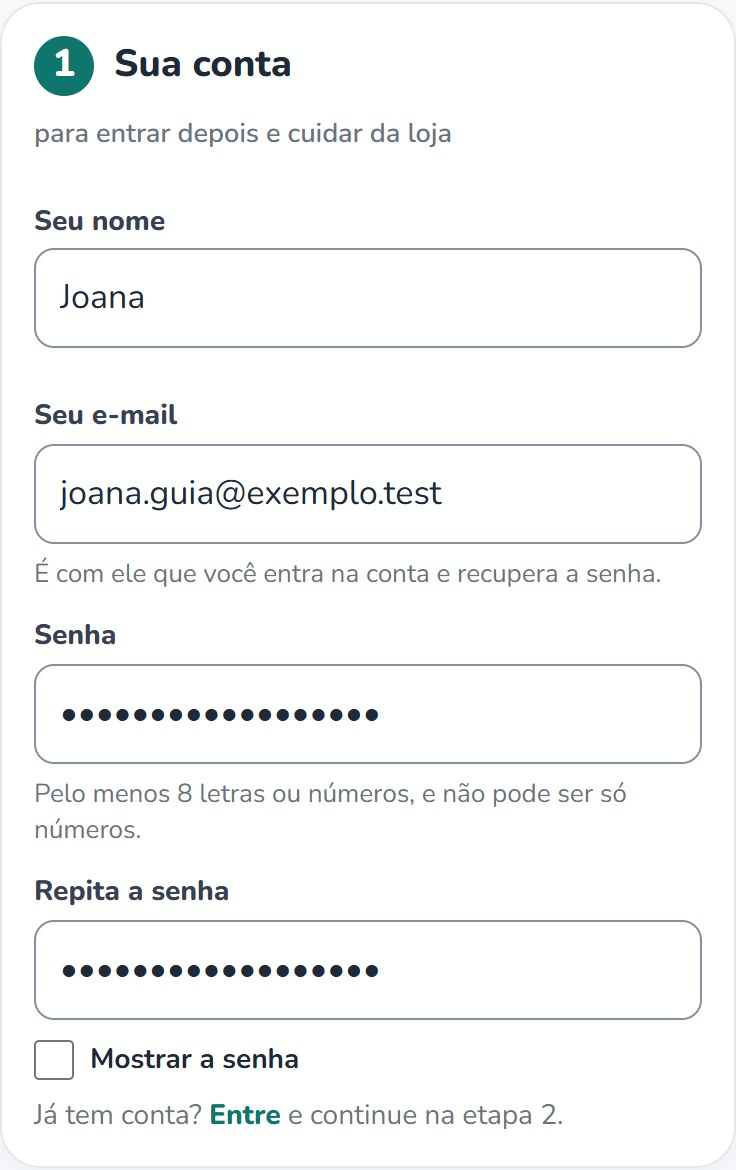
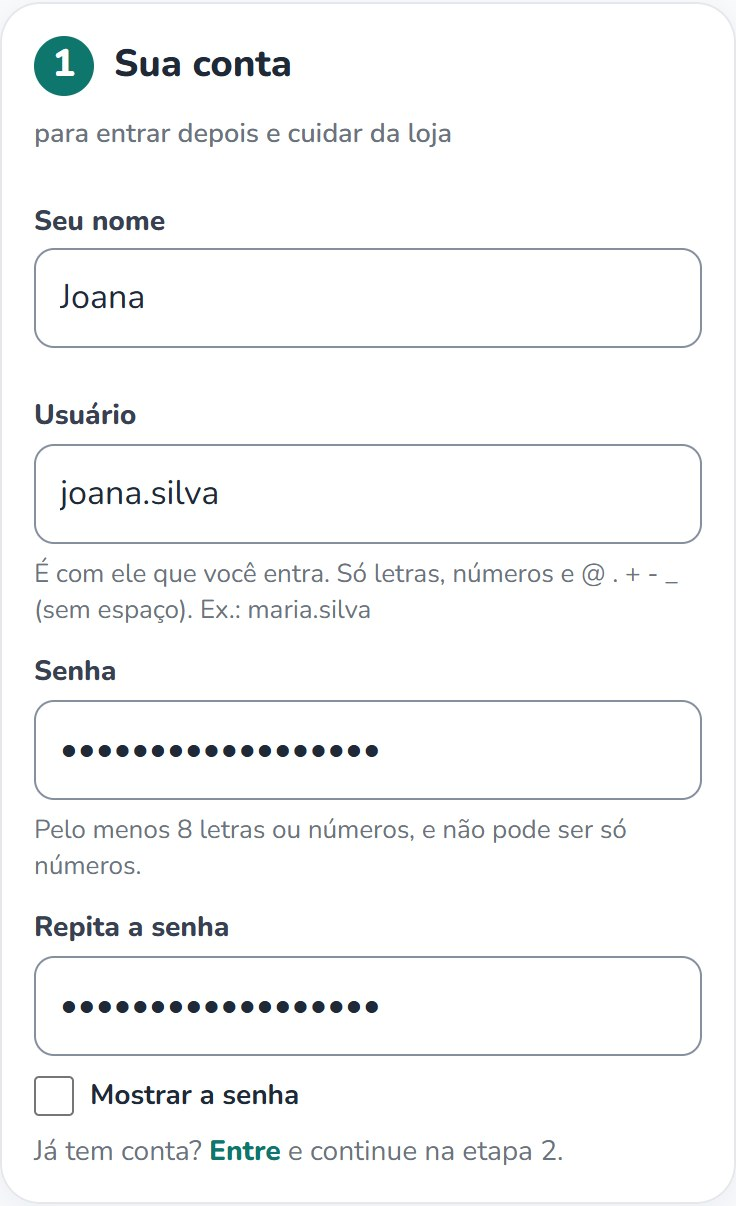
Conta com nome, usuário e senha (sem e-mail); entrar pelo usuário

diff --git a/vitrine/templates/vitrine/cadastro_loja.html b/vitrine/templates/vitrine/cadastro_loja.html
@@ -4,7 +4,7 @@
 {% block cabeca %}{% if loja %}<link rel="stylesheet" href="https://cdnjs.cloudflare.com/ajax/libs/leaflet/1.9.4/leaflet.min.css">{% endif %}{% endblock %}
 
 {% block conteudo %}
-<section class="tela tela-cad-loja" data-ouvir="{% if editando %}Aqui você muda os dados da sua loja. Depois toque em Salvar.{% elif conta %}Cadastrar a sua loja é de graça e tem duas etapas. Agora é a etapa 1: crie a sua conta com seu nome, seu e-mail e uma senha. Depois toque em Criar conta e continuar.{% else %}Etapa 2: os dados da loja. Escreva o nome da loja, o que você vende, o seu WhatsApp e, se quiser, o horário. Depois marque no mapa onde fica a loja: toque no mapa ou no botão Usar onde estou. Foto e história são opcionais. No fim, toque em Cadastrar minha loja.{% endif %}">
+<section class="tela tela-cad-loja" data-ouvir="{% if editando %}Aqui você muda os dados da sua loja. Depois toque em Salvar.{% elif conta %}Cadastrar a sua loja é de graça e tem duas etapas. Agora é a etapa 1: crie a sua conta com seu nome, um usuário e uma senha. Depois toque em Criar conta e continuar.{% else %}Etapa 2: os dados da loja. Escreva o nome da loja, o que você vende, o seu WhatsApp e, se quiser, o horário. Depois marque no mapa onde fica a loja: toque no mapa ou no botão Usar onde estou. Foto e história são opcionais. No fim, toque em Cadastrar minha loja.{% endif %}">
   <header class="cl-topo">
     <span class="ajuda-selo"><i data-lucide="store" class="ic-l" aria-hidden="true"></i> {% if editando %}Minha loja{% else %}Para quem vende{% endif %}</span>
     <h1>{% if editando %}Dados da minha loja{% else %}Cadastre a sua loja{% endif %}</h1>
@@ -31,7 +31,7 @@
       <legend><span class="ap-n">1</span> Sua conta <small>para entrar depois e cuidar da loja</small></legend>
       <div class="cl-campos">
         {% for campo in conta %}
-        <div class="campo{% if campo.name == 'email' or campo.name == 'first_name' %} cheio{% endif %}">
+        <div class="campo{% if campo.name == 'username' or campo.name == 'first_name' %} cheio{% endif %}">
           <label for="{{ campo.id_for_label }}">{{ campo.label }}</label>{{ campo }}
           {% if campo.help_text %}<small class="ajuda">{{ campo.help_text|safe }}</small>{% endif %}
           {{ campo.errors }}

diff --git a/vitrine/templates/vitrine/sobre.html b/vitrine/templates/vitrine/sobre.html
@@ -46,7 +46,7 @@
     <div class="ab-cab"><span class="ab-ic laranja"><i data-lucide="list-checks" class="ic-l" aria-hidden="true"></i></span><div><h2 id="tit-guia-loja">Passo a passo: cadastrar a sua loja</h2><p>Leva uns 3 minutos. Veja as telas que vão aparecer.</p></div></div>
     <ol class="guia-lista" tabindex="0" aria-label="Telas do passo a passo (role para o lado)">
       <li class="guia-passo"><figure><img src="{% static 'vitrine/guia/loja-1.jpg' %}" alt="Tela: Toque em “Cadastrar minha loja”" loading="lazy"></figure><div><span class="ap-n laranja">1</span><b>Toque em “Cadastrar minha loja”</b><p>Fica no fim da página inicial, em <b>Para quem vende</b>, e no menu <b>Vender</b>.</p></div></li>
-      <li class="guia-passo"><figure><img src="{% static 'vitrine/guia/loja-2.jpg' %}?v=2" alt="Tela: Crie a sua conta" loading="lazy"></figure><div><span class="ap-n laranja">2</span><b>Crie a sua conta</b><p>Só nome, e-mail e senha. Você entra com o e-mail.</p></div></li>
+      <li class="guia-passo"><figure><img src="{% static 'vitrine/guia/loja-2.jpg' %}?v=3" alt="Tela: Crie a sua conta" loading="lazy"></figure><div><span class="ap-n laranja">2</span><b>Crie a sua conta</b><p>Só nome, usuário e senha. Você entra com o usuário.</p></div></li>
       <li class="guia-passo"><figure><img src="{% static 'vitrine/guia/loja-3.jpg' %}?v=2" alt="Tela: Conte sobre a loja" loading="lazy"></figure><div><span class="ap-n laranja">3</span><b>Conte sobre a loja</b><p>Nome da loja, como os clientes chamam você, o que vende e o seu WhatsApp.</p></div></li>
       <li class="guia-passo"><figure><img src="{% static 'vitrine/guia/loja-4.jpg' %}?v=2" alt="Tela: Digite o CEP e confira no mapa" loading="lazy"></figure><div><span class="ap-n laranja">4</span><b>Digite o CEP e confira no mapa</b><p>O site completa bairro e rua sozinho e leva o mapa até a sua rua. Arraste o marcador até a porta da loja.</p></div></li>
       <li class="guia-passo"><figure><img src="{% static 'vitrine/guia/loja-5.jpg' %}?v=2" alt="Tela: Pronto, a loja já está no ar" loading="lazy"></figure><div><span class="ap-n laranja">5</span><b>Pronto, a loja já está no ar</b><p>No seu painel você coloca os produtos e acompanha a nota e as avaliações.</p></div></li>

diff --git a/vitrine/templates/registration/login.html b/vitrine/templates/registration/login.html
@@ -2,13 +2,13 @@
 {% load static %}
 {% block titulo %}Entrar – Vitrine Digital{% endblock %}
 {% block conteudo %}
-<section class="tela login com-lado" data-ouvir="Esta é a tela de entrar. Escreva seu e-mail e sua senha e toque em Entrar. Se não tem conta, toque em Criar conta. Se esqueceu a senha, toque em Esqueci minha senha.">
+<section class="tela login com-lado" data-ouvir="Esta é a tela de entrar. Escreva seu usuário e sua senha e toque em Entrar. Se não tem conta, toque em Criar conta. Se esqueceu a senha, toque em Esqueci minha senha.">
   <aside class="conta-lado" style="--foto:url('{% static 'vitrine/fotos/mosaico-2.jpg' %}')"><div class="cl-txt"><img src="{% static 'vitrine/logo.svg' %}" alt="" class="cl-logo"><h2>Que bom ver você por aqui</h2><ul><li><i data-lucide="star" class="ic-l" aria-hidden="true"></i>Avalie as lojas onde você comprou</li><li><i data-lucide="store" class="ic-l" aria-hidden="true"></i>Comerciante: cuide da sua vitrine, preços e fotos</li><li><i data-lucide="shield-check" class="ic-l" aria-hidden="true"></i>Sua senha fica protegida e só você entra na sua conta</li></ul></div></aside>
   <div class="marca"><div class="logo" aria-hidden="true"><i data-lucide="log-in" class="ic-l" aria-hidden="true"></i></div><div><h1>Entrar</h1><small style="color:var(--cinza)">Para avaliar lojas ou cuidar da sua vitrine</small></div></div>
   <form class="caixa" method="post" style="margin:20px 0 0">
     {% csrf_token %}
-    {% if form.non_field_errors %}<div class="erro">E-mail ou senha incorretos.</div>{% endif %}
-    <div class="campo cheio" style="margin-top:8px"><label for="id_username">E-mail</label>{{ form.username }}</div>
+    {% if form.non_field_errors %}<div class="erro">Usuário ou senha incorretos.</div>{% endif %}
+    <div class="campo cheio" style="margin-top:8px"><label for="id_username">Usuário</label>{{ form.username }}</div>
     <div class="campo cheio" style="margin-top:10px"><label for="id_password">Senha</label>{{ form.password }}</div>
     <label class="mostra-senha"><input type="checkbox" class="ver-senha"> Mostrar a senha</label>
     <input type="hidden" name="next" value="{{ next }}">

diff --git a/vitrine/templates/registration/cadastro.html b/vitrine/templates/registration/cadastro.html
@@ -2,9 +2,9 @@
 {% load static %}
 {% block titulo %}Criar conta – Vitrine Digital{% endblock %}
 {% block conteudo %}
-<section class="tela login com-lado" data-ouvir="Esta é a tela de criar conta. Escreva seu nome, seu e-mail e uma senha. Depois toque em Criar conta.">
+<section class="tela login com-lado" data-ouvir="Esta é a tela de criar conta. Escreva seu nome, escolha um usuário e uma senha. Depois toque em Criar conta.">
   <aside class="conta-lado" style="--foto:url('{% static 'vitrine/fotos/mosaico-3.jpg' %}')"><div class="cl-txt"><img src="{% static 'vitrine/logo.svg' %}" alt="" class="cl-logo"><h2>Uma conta, em menos de 1 minuto</h2><ul><li><i data-lucide="user-round" class="ic-l" aria-hidden="true"></i>Só nome, usuário e senha. E-mail é opcional</li><li><i data-lucide="star" class="ic-l" aria-hidden="true"></i>Avalie e ajude seus vizinhos a escolher onde comprar</li><li><i data-lucide="scale" class="ic-l" aria-hidden="true"></i>Uma avaliação por loja: notas justas para todo mundo</li></ul></div></aside>
-  <div class="marca"><div class="logo" aria-hidden="true"><i data-lucide="user-plus" class="ic-l" aria-hidden="true"></i></div><div><h1>Criar conta</h1><small style="color:var(--cinza)">Rapidinho: só nome, e-mail e senha</small></div></div>
+  <div class="marca"><div class="logo" aria-hidden="true"><i data-lucide="user-plus" class="ic-l" aria-hidden="true"></i></div><div><h1>Criar conta</h1><small style="color:var(--cinza)">Rapidinho: só nome, usuário e senha</small></div></div>
   <form class="caixa" method="post" style="margin:20px 0 0" novalidate>
     {% csrf_token %}
     {{ form.non_field_errors }}

diff --git a/vitrine/tests.py b/vitrine/tests.py
@@ -199,42 +199,40 @@ class AvaliacaoTests(TestCase):
 
 class ContaTests(TestCase):
     def test_cadastro_cria_conta_e_entra(self):
-        r = self.client.post(reverse('cadastro'), {'first_name': 'Joana', 'email': 'Joana@Exemplo.com',
+        r = self.client.post(reverse('cadastro'), {'first_name': 'Joana', 'username': 'joana',
                                                    'password1': 'feira-boa-2026', 'password2': 'feira-boa-2026',
                                                    'next': '/banca/1/'})
         self.assertRedirects(r, '/banca/1/', fetch_redirect_response=False)
         u = get_user_model().objects.get(first_name='Joana')
-        self.assertEqual((u.username, u.email), ('joana@exemplo.com', 'joana@exemplo.com'))  # o e-mail vira o login
+        self.assertEqual((u.username, u.email), ('joana', ''))  # sem e-mail
         self.assertIn('_auth_user_id', self.client.session)
 
-    def test_cadastro_sem_campo_usuario_e_email_obrigatorio(self):
+    def test_cadastro_sem_campo_de_email(self):
         r = self.client.get(reverse('cadastro'))
-        self.assertNotContains(r, 'name="username"')
-        r = self.client.post(reverse('cadastro'), {'first_name': 'X', 'email': '',
-                                                   'password1': 'feira-boa-2026', 'password2': 'feira-boa-2026'})
-        self.assertEqual(r.status_code, 200)
-        self.assertFalse(get_user_model().objects.exists())
+        self.assertNotContains(r, 'name="email"')
+        self.assertContains(r, 'name="username"')
 
     def test_cadastro_nao_redireciona_para_site_externo(self):
-        r = self.client.post(reverse('cadastro'), {'first_name': 'X', 'email': 'x@exemplo.com', 'password1': 'feira-boa-2026',
+        r = self.client.post(reverse('cadastro'), {'first_name': 'X', 'username': 'xx', 'password1': 'feira-boa-2026',
                                                    'password2': 'feira-boa-2026', 'next': 'https://site-malicioso.com/'})
         self.assertRedirects(r, reverse('inicio'), fetch_redirect_response=False)
 
-    def test_email_repetido_recusado(self):
-        get_user_model().objects.create_user('a1', email='mesmo@exemplo.com', password='x-123456789')
-        self.client.post(reverse('cadastro'), {'first_name': 'B', 'email': 'MESMO@exemplo.com',
+    def test_usuario_repetido_recusado_mesmo_com_maiuscula(self):
+        get_user_model().objects.create_user('maria', password='x-123456789')
+        self.client.post(reverse('cadastro'), {'first_name': 'B', 'username': 'Maria',
                                                'password1': 'feira-boa-2026', 'password2': 'feira-boa-2026'})
         self.assertEqual(get_user_model().objects.count(), 1)
 
-    def test_entra_com_email_ou_usuario_antigo(self):
-        get_user_model().objects.create_user('lia', email='lia@exemplo.com', password='senha-boa-2026')
-        r = self.client.post(reverse('login'), {'username': 'LIA@exemplo.com', 'password': 'senha-boa-2026'})
+    def test_entra_com_usuario_ou_email_de_conta_antiga(self):
+        get_user_model().objects.create_user('lia@exemplo.com', email='lia@exemplo.com', password='senha-boa-2026')
+        get_user_model().objects.create_user('rui', password='senha-boa-2026')
+        r = self.client.post(reverse('login'), {'username': 'rui', 'password': 'senha-boa-2026'})
         self.assertEqual(r.status_code, 302)
         self.client.logout()
-        self.assertTrue(self.client.login(username='lia', password='senha-boa-2026'))  # contas antigas continuam
+        self.assertTrue(self.client.login(username='LIA@exemplo.com', password='senha-boa-2026'))  # contas criadas com e-mail
         self.client.logout()
-        r = self.client.post(reverse('login'), {'username': 'lia@exemplo.com', 'password': 'errada-000'})
-        self.assertContains(r, 'E-mail ou senha incorretos.')
+        r = self.client.post(reverse('login'), {'username': 'rui', 'password': 'errada-000'})
+        self.assertContains(r, 'Usuário ou senha incorretos.')
 
     def test_esqueci_senha_manda_link_e_troca(self):
         from django.core import mail
@@ -260,12 +258,12 @@ class CadastroLojaTests(TestCase):
     DADOS = {'l-nome': 'Pastel da Joana', 'l-responsavel': 'Joana', 'l-categoria': 'comida', 'l-whatsapp': '(82) 98888-7777',
              'l-bairro': 'Ponta Verde', 'l-ponto': 'Rua Durval Guimarães', 'l-cep': '57035060',
              'l-latitude': '-9.662003', 'l-longitude': '-35.707900', 'l-historia': ''}
-    CONTA = {'c-first_name': 'Joana', 'c-email': 'joana@exemplo.com', 'c-password1': 'Senha-forte-123', 'c-password2': 'Senha-forte-123'}
+    CONTA = {'c-first_name': 'Joana', 'c-username': 'joana', 'c-password1': 'Senha-forte-123', 'c-password2': 'Senha-forte-123'}
 
     def test_etapa_1_cria_so_a_conta_e_ja_entra(self):
         r = self.client.post(reverse('cadastro_loja'), self.CONTA)
         self.assertRedirects(r, reverse('cadastro_loja'))
-        self.assertTrue(get_user_model().objects.filter(username='joana@exemplo.com').exists())
+        self.assertTrue(get_user_model().objects.filter(username='joana').exists())
         self.assertFalse(Banca.objects.exists())
         self.assertContains(self.client.get(reverse('cadastro_loja')), 'Etapa 2')  # já logada, vê os dados da loja
 
@@ -274,7 +272,7 @@ class CadastroLojaTests(TestCase):
         r = self.client.post(reverse('cadastro_loja'), self.DADOS)
         self.assertRedirects(r, reverse('painel'))
         loja = Banca.objects.get(nome='Pastel da Joana')
-        self.assertEqual(loja.dono.username, 'joana@exemplo.com')
+        self.assertEqual(loja.dono.username, 'joana')
         self.assertEqual(loja.whatsapp, '5582988887777')  # número limpo, com 55
         self.assertEqual(loja.cep, '57035-060')
         self.assertTrue(loja.visivel)  # sem esperar aprovação
@@ -319,7 +317,7 @@ class CadastroLojaTests(TestCase):
         outro = get_user_model().objects.create_user('beto', password='senha-teste-123')
         self.client.post(reverse('cadastro_loja'), self.CONTA)
         self.client.post(reverse('cadastro_loja'), {**self.DADOS, 'l-dono': outro.pk})
-        self.assertEqual(Banca.objects.get(nome='Pastel da Joana').dono.username, 'joana@exemplo.com')
+        self.assertEqual(Banca.objects.get(nome='Pastel da Joana').dono.username, 'joana')
 
     def test_painel_sem_loja_manda_cadastrar(self):
         get_user_model().objects.create_user('maria', password='senha-teste-123')

diff --git a/vitrine/forms.py b/vitrine/forms.py
@@ -77,45 +77,38 @@ class AvaliacaoForm(forms.ModelForm):
 
 
 class CadastroForm(UserCreationForm):
-    """Cadastro curto: nome, e-mail e senha. O e-mail é o login (não mandamos código para confirmar)."""
+    """Cadastro curto: nome, usuário e senha (sem e-mail)."""
     first_name = forms.CharField(label='Seu nome', max_length=40,
                                  widget=forms.TextInput(attrs={'autocomplete': 'given-name', 'placeholder': 'Ex.: Maria'}))
-    email = forms.EmailField(label='Seu e-mail', max_length=150,
-                             help_text='É com ele que você entra na conta e recupera a senha.',
-                             widget=forms.EmailInput(attrs={'autocomplete': 'email', 'placeholder': 'Ex.: maria@gmail.com'}))
 
     class Meta(UserCreationForm.Meta):
         model = User
-        fields = ['first_name', 'email']
+        fields = ['first_name', 'username']
+        labels = {'username': 'Usuário'}
+        help_texts = {'username': 'É com ele que você entra. Só letras, números e @ . + - _ (sem espaço). Ex.: maria.silva'}
 
     def __init__(self, *args, **kwargs):
         super().__init__(*args, **kwargs)
+        self.fields['username'].widget.attrs.update({'autocomplete': 'username', 'autocapitalize': 'none', 'placeholder': 'Ex.: maria.silva'})
         self.fields['password1'].label = 'Senha'
         self.fields['password1'].help_text = 'Pelo menos 8 letras ou números, e não pode ser só números.'
         self.fields['password2'].label = 'Repita a senha'
         self.fields['password2'].help_text = ''
 
-    def clean_email(self):
-        email = self.cleaned_data.get('email', '').strip().lower()
-        if User.objects.filter(Q(email__iexact=email) | Q(username__iexact=email)).exists():
-            raise forms.ValidationError('Já existe uma conta com este e-mail. Toque em Entrar.')
-        return email
-
-    def save(self, commit=True):
-        user = super().save(commit=False)
-        user.username = self.cleaned_data['email']  # o Django exige um usuário: usamos o próprio e-mail
-        if commit:
-            user.save()
-        return user
+    def clean_username(self):
+        usuario = super().clean_username()
+        # não deixa criar "Maria" se já existe "maria", nem usar o e-mail de uma conta antiga
+        if User.objects.filter(Q(username__iexact=usuario) | Q(email__iexact=usuario)).exists():
+            raise forms.ValidationError('Esse usuário já existe. Escolha outro.')
+        return usuario
 
 
 class EntrarForm(AuthenticationForm):
-    """Entrar com o e-mail (contas antigas ainda entram com o usuário)."""
+    """Entrar com o usuário (contas antigas criadas com e-mail também entram pelo e-mail)."""
     def __init__(self, *args, **kwargs):
         super().__init__(*args, **kwargs)
-        self.fields['username'].label = 'E-mail'
-        self.fields['username'].widget.attrs.update({'autocomplete': 'email', 'inputmode': 'email',
-                                                     'autocapitalize': 'none', 'placeholder': 'O e-mail da sua conta'})
+        self.fields['username'].label = 'Usuário'
+        self.fields['username'].widget.attrs.update({'autocomplete': 'username', 'autocapitalize': 'none', 'placeholder': 'Seu usuário'})
 
 
 class EsqueciSenhaForm(PasswordResetForm):

diff --git a/vitrine/views.py b/vitrine/views.py
@@ -215,7 +215,7 @@ def remover_produto(request, pk):
 
 
 def cadastro(request):
-    """Cadastro curto do cliente (nome, e-mail e senha) para poder avaliar bancas."""
+    """Cadastro curto do cliente (nome, usuário e senha) para poder avaliar bancas."""
     proximo = request.POST.get('next') or request.GET.get('next') or ''
     if not url_has_allowed_host_and_scheme(proximo, allowed_hosts={request.get_host()}, require_https=request.is_secure()):
         proximo = ''
@@ -240,7 +240,7 @@ def _bairros_conhecidos():
 
 def cadastro_loja(request):
     """O comerciante cria a própria loja, sem esperar aprovação, em duas etapas:
-    1) sem conta: só cria a conta (nome, e-mail e senha) e já entra;
+    1) sem conta: só cria a conta (nome, usuário e senha) e já entra;
     2) já logado: preenche os dados da loja, o local no mapa e, se quiser, foto e história."""
     if request.user.is_authenticated and _banca_do_usuario(request):
         return redirect('painel')
